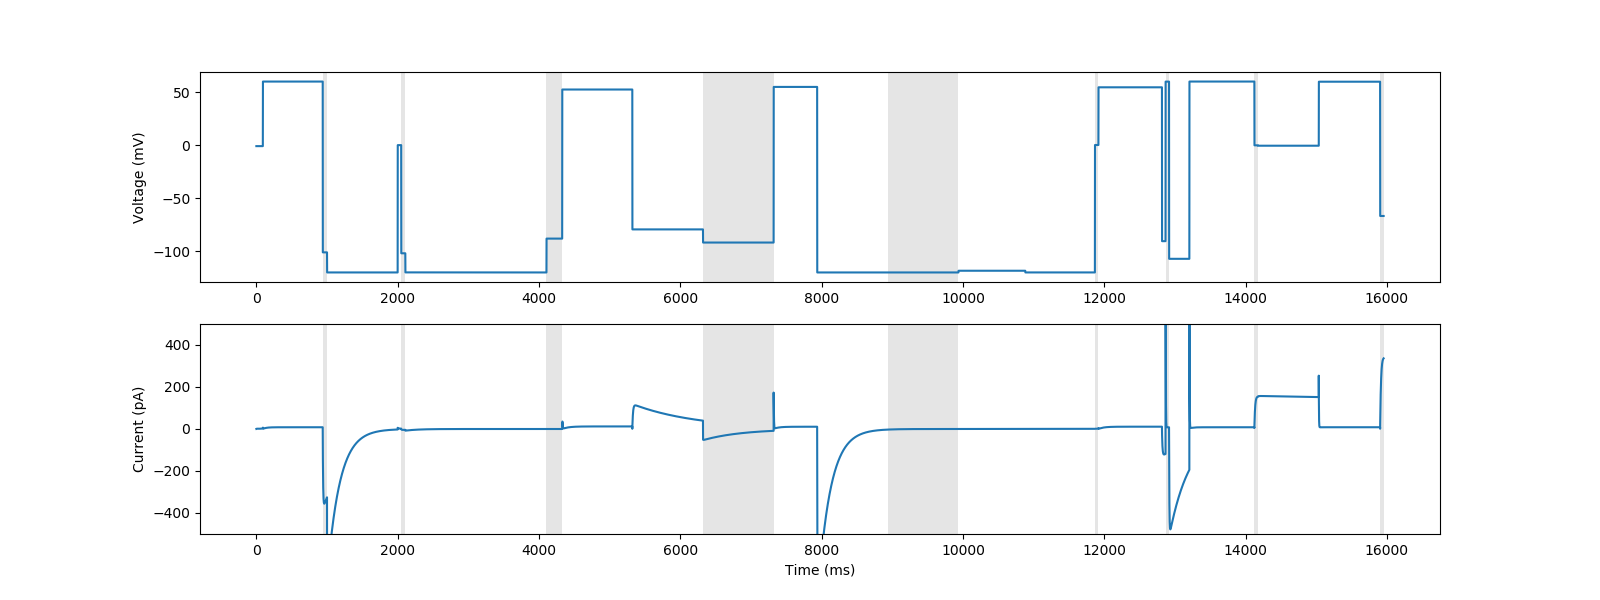
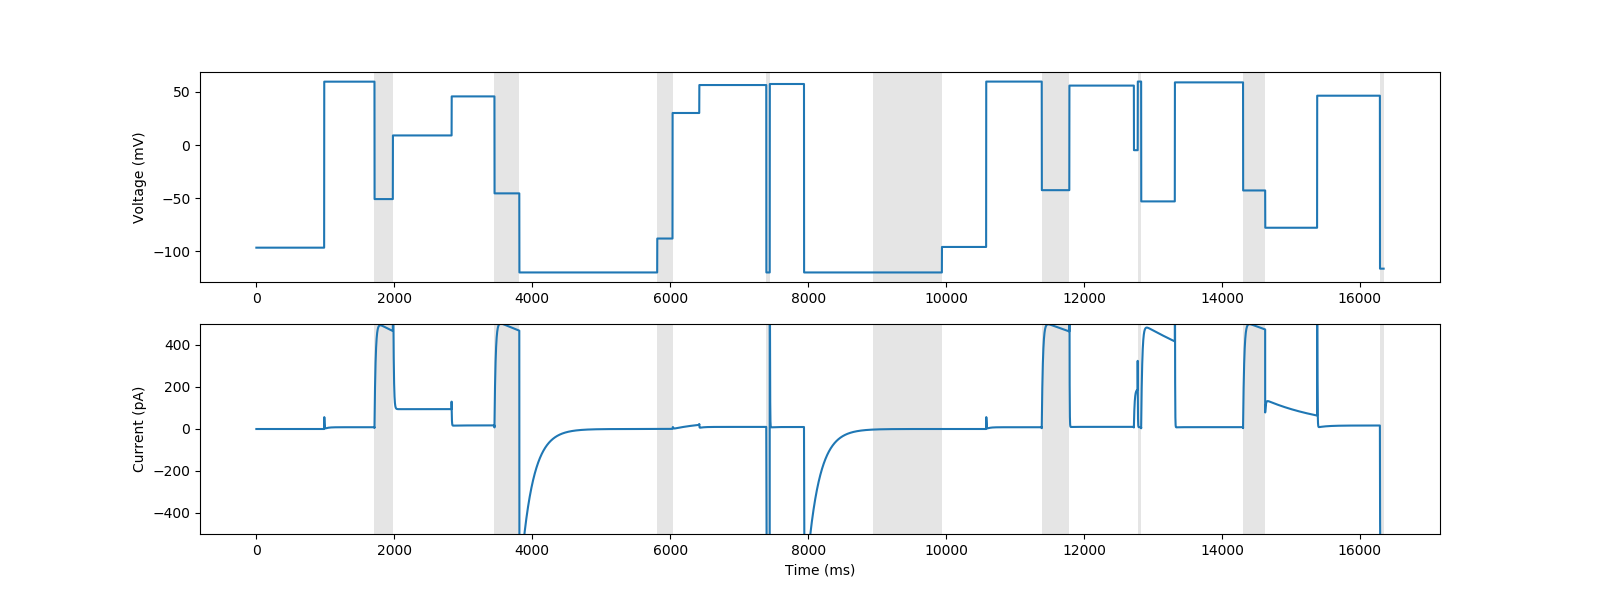
Result with NaiveS1Current ojective functioN

diff --git a/lib/model.py b/lib/model.py
@@ -203,7 +203,6 @@ class Model(pints.ForwardModel):
         return self.parameters
 
 
-
 #
 # Setup own score function
 #
@@ -244,19 +243,7 @@ class NaiveAllS1Score(pints.ErrorMeasure):
     def n_parameters(self):
         return len(self.parameters)
 
-    def __call__(self, param, debug=False):
-        # Time for simulation
-        times = np.arange(0, np.sum(param[1::2]), self._dt)
-        pre_time = np.sum(param[1:-1:2])
-        idx_i = int(pre_time / self._dt)
-        idx_f = -1
-        # Update protocol
-        self._model.set_voltage_protocol(param)
-        
-        ## p_i = p_i
-        # x = np.copy(self._base_param)
-        # d0 = self._model.simulate(x, times, [self._var_list[var]])
-
+    def _naiveS1(self, times, idx_i, idx_f, debug=False):
         total = 0
         tomax = None  # make sure it won't do something silly if tomax not def
         for i, var in enumerate(self._variables):
@@ -290,10 +277,72 @@ class NaiveAllS1Score(pints.ErrorMeasure):
                 if debug:
                     print(-np.sum(np.abs(dIdvar)))
 
+        return total, tomax
+
+    def __call__(self, param, debug=False):
+        # Time for simulation
+        times = np.arange(0, np.sum(param[1::2]), self._dt)
+        pre_time = np.sum(param[1:-1:2])
+        idx_i = int(pre_time / self._dt)
+        idx_f = -1
+        # Update protocol
+        self._model.set_voltage_protocol(param)
+
+        total, tomax = self._naiveS1(times, idx_i, idx_f, debug)
+
         return - tomax / total  # or total / tomax
 
 
-class NormalisedNaiveS1CurrentScore(pints.ErrorMeasure):
+class NaiveAllS1CurrentScore(NaiveAllS1Score):
+    """
+    Self define error measure for 3-step protocol optimisation.
+    
+    Note that this is not normalised to 1, so it is $J_i / \sum_{k!=i} J_k$,
+    where $J_i = \int_{t over step 3} |dI/dp_i * p_i| dt$.
+    """
+
+    def __init__(self, model, max_idx, base_param, var_list,
+                 sensitivity=0.025):
+        """
+        # model: model in this module.
+        # max_idx: idx of the parameter for which to be maximised; this
+        #          should match `base_param`.
+        # base_param: model's (local) parameters that this protocol
+        #             optimisation based on; this should match `var_list`.
+        # var_list: {'variable': 'current', ...}.
+        # sensitivity = naive approx. to sensitivity.
+        """
+        super(NaiveAllS1CurrentScore, self).__init__(
+                model, max_idx, base_param, var_list, sensitivity)
+
+    def __call__(self, param, debug=False):
+        # Time for simulation
+        times = np.arange(0, np.sum(param[1::2]), self._dt)
+        pre_time = np.sum(param[1:-1:2])
+        idx_i = int(pre_time / self._dt)
+        idx_f = -1
+        # Update protocol
+        self._model.set_voltage_protocol(param)
+        
+        # Part 1: parameter sensitivity
+        total, tomax = self._naiveS1(times, idx_i, idx_f, debug)
+
+        # Part 2: make current size bigger
+
+        ## p_i = p_i
+        x = np.copy(self._base_param)
+        max_cur = self._var_list[self._max_var]
+        d0 = self._model.simulate(x, times, [max_cur])
+
+        mean_o = 0.3  # open prob that roughly gives a good current
+        mean_c = np.mean(np.abs(d0[max_cur][idx_i:idx_f])) / \
+                (mean_o * self._base_param[0] * 100) # ~100 mV for (V - EK)
+        w_mean_c = 1.5  # weighting of mean_c
+
+        return - tomax / total - w_mean_c * mean_c  # or total / tomax
+
+
+class NormalisedNaiveS1CurrentScore(NaiveAllS1Score):
     """
     Self define error measure for 3-step protocol optimisation.
     
@@ -304,10 +353,6 @@ class NormalisedNaiveS1CurrentScore(pints.ErrorMeasure):
     A caveat is that the second criterion does not guarantee an overall big
     current.
     """
-    
-    parameters = [
-            's1v', 's1t', 's2v', 's2t', 's3v', 's3t'
-        ]
     
     def __init__(self, model, max_idx, base_param, var_list,
                  sensitivity=0.025):
@@ -320,20 +365,8 @@ class NormalisedNaiveS1CurrentScore(pints.ErrorMeasure):
         # var_list: {'variable': 'current', ...}.
         # sensitivity = naive approx. to sensitivity.
         """
-        super(NaiveAllS1Score, self).__init__()
-
-        self._model = model
-        self._max_idx = max_idx
-        self._base_param = base_param
-        self._var_list = var_list
-        self._variables = model.parameter()
-        self._max_var = self._variables[self._max_idx]
-        self._current_list = model.current_list()
-        self._sensitivity = sensitivity
-        self._dt = 0.5  # ms
-
-    def n_parameters(self):
-        return len(self.parameters)
+        super(NormalisedNaiveS1CurrentScore, self).__init__(
+                model, max_idx, base_param, var_list, sensitivity)
 
     def __call__(self, param, debug=False):
         # Time for simulation

diff --git a/optimise/optimise.py b/optimise/optimise.py
@@ -25,7 +25,7 @@ except:
     print('Usage: python %s [str:info_id]' % os.path.basename(__file__))
     sys.exit()
 
-n_repeats = 5
+n_repeats = 1
 
 model = m.Model(info.model_file,
         variables=info.parameters,
@@ -57,7 +57,7 @@ for i_var, var in enumerate(info.parameters):
     best_s = np.inf
     best_p = None
     for _ in range(n_repeats):
-        score = m.NaiveAllS1Score(model,
+        score = m.NaiveAllS1CurrentScore(model,
                 max_idx=i_var,
                 base_param=info.base_param,
                 var_list=info.var_list,
